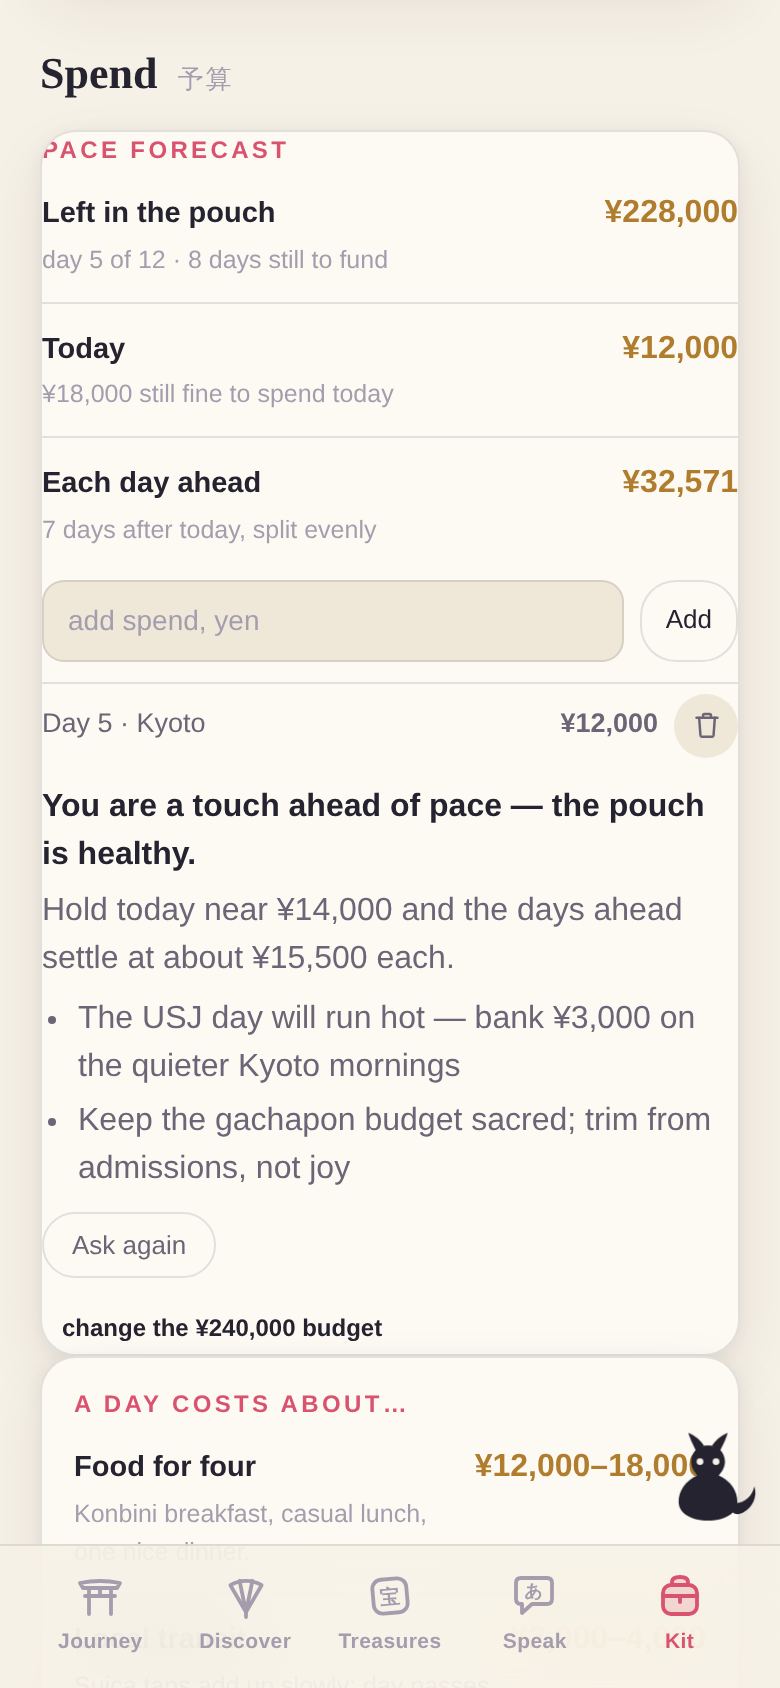
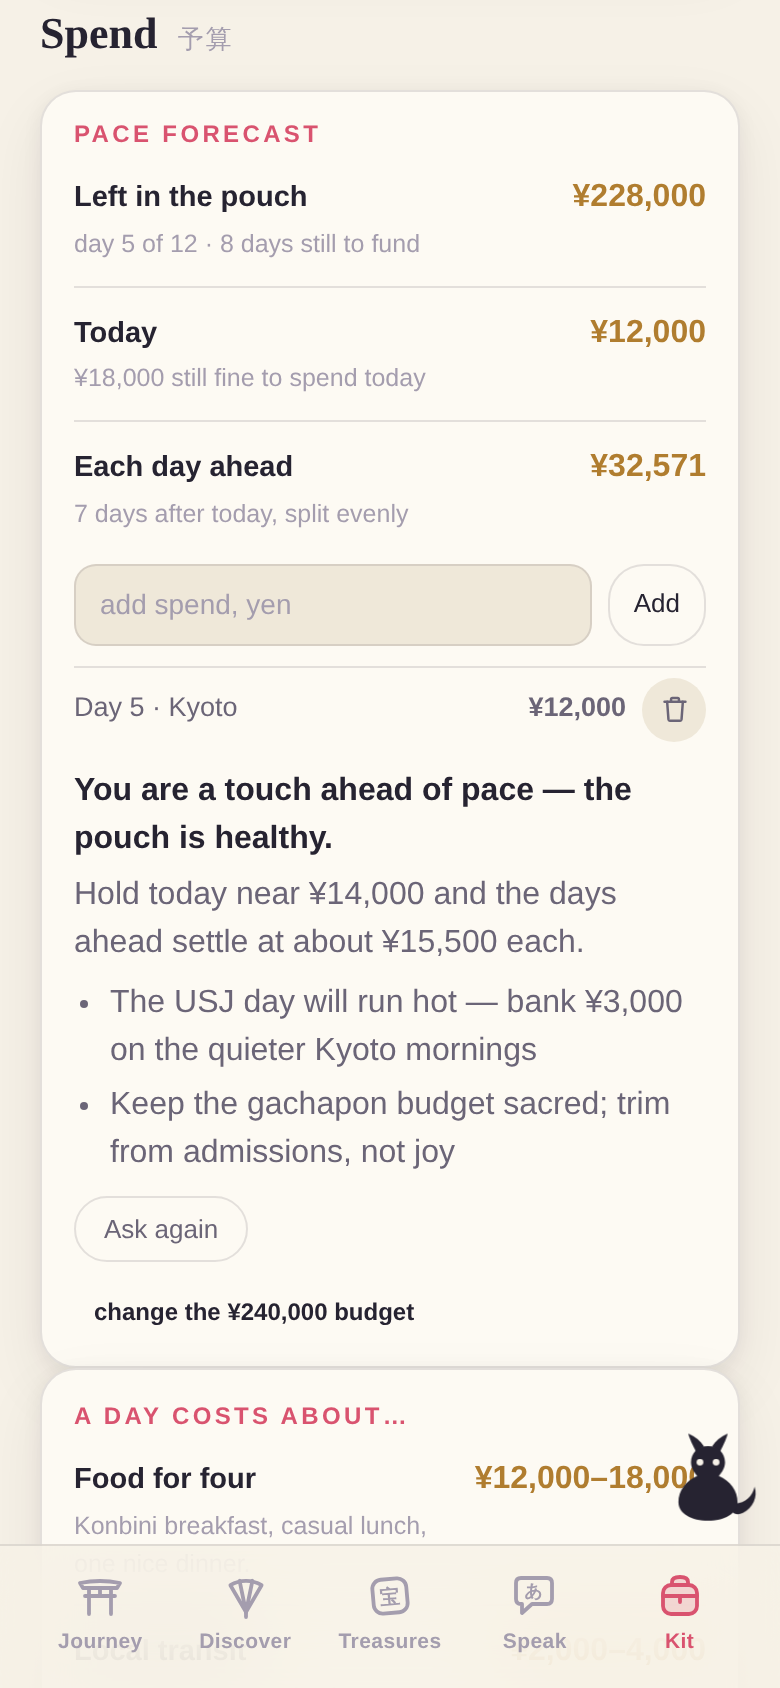
Fix: the pace card gets its inner padding
The base .card carries no padding - every variant sets its own - so the
pace card's content rode the rounded corner and overflow:hidden clipped
the kicker's first letter (owner's field screenshot, trip day 4).
12px 16px 14px, matching the lens cards and the budget guide beside it.
Screenshot re-captured.

Claude-Session: https://claude.ai/code/session_01LyG9xFAMzm5t51naNnouAk

diff --git a/src/styles/screens.css b/src/styles/screens.css
@@ -1157,6 +1157,11 @@
 
 /* ---------- the pace forecast (Kit → Spend) ---------- */
 
+/* the base .card carries no padding — every variant sets its own (the
+   converter, the sync card, the lenses); without this the kicker rides
+   the rounded corner and gets clipped by the card's overflow:hidden */
+.pace-card { padding: 12px 16px 14px; }
+
 .pace-card .pace-over { color: var(--vermillion); }
 
 .pace-days { margin-top: 10px; border-top: 1px solid var(--hairline); }